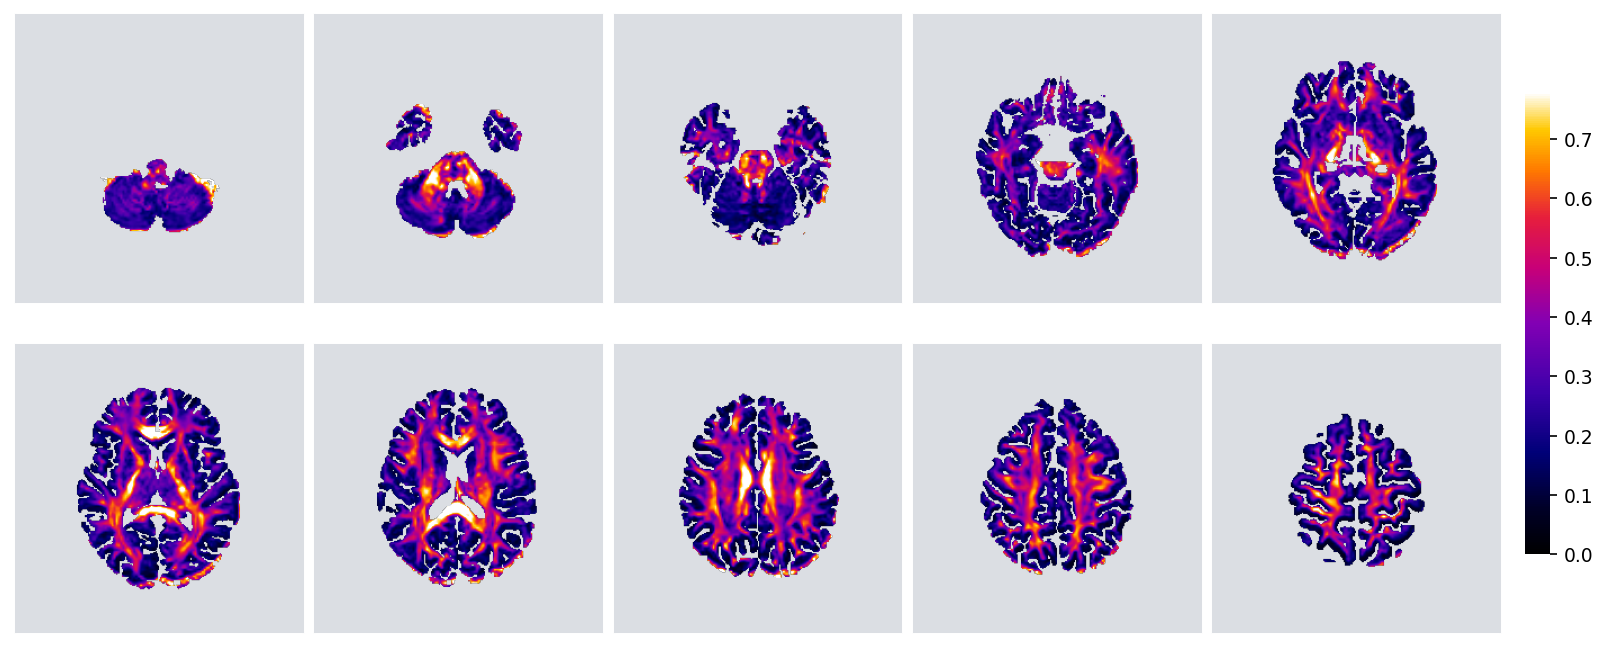
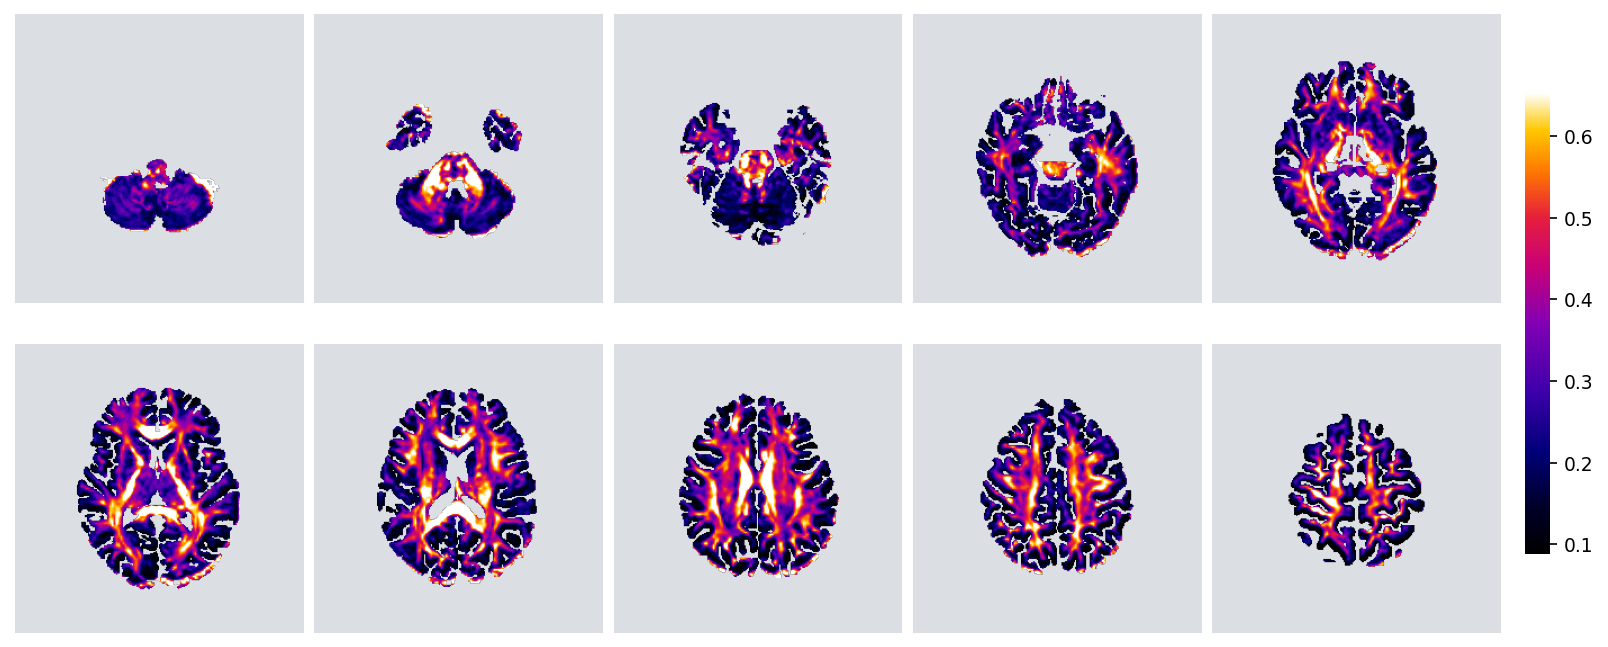
updated images

diff --git a/pbrain/io/ir_assembly.py b/pbrain/io/ir_assembly.py
@@ -1,66 +1,126 @@
-"""Assemble an inversion-recovery series from separate per-TI NIfTI files.
+"""Assemble an inversion-/saturation-recovery series from separate per-TI files.
 
-Some scanners export the IR experiment as one magnitude volume per inversion
-time (e.g. ``WIPTI_00120.nii``, ``WIPTI_00300.nii`` … where the number is the
-TI in ms) rather than a single 4-D stack. :func:`assemble_ir` finds those
-files, orders them by TI, and writes a single 4-D NIfTI the T1/M0 fitter can
-consume. The TI values are recovered from the filenames; when they match the
+Some scanners export the recovery experiment as one volume per inversion time
+(``…TI_00120…``, ``…TI_00300…``, …) instead of a single 4-D stack — and in
+whatever format the scanner produced: **NIfTI, PAR/REC, or DICOM**.
+:func:`assemble_ir` finds those per-TI volumes (by filename for NIfTI, by the
+PAR "Protocol name" header otherwise), converts non-NIfTI inputs to NIfTI with
+``dcm2niix``, orders them by TI, and writes a single 4-D NIfTI the T1/M0 fitter
+consumes. The TI values come from the file/protocol names; when they match the
 pipeline's ``inversion_times_ms`` the downstream stage uses those directly.
 
 Usage::
 
     from pbrain.io.ir_assembly import assemble_ir
-    ir_path, tis_ms = assemble_ir(subject_nifti_dir, out_path)
+    result = assemble_ir(subject_raw_dir, out_path)   # searches NIfTI + PAR/REC
+    if result: ir_path, tis_ms = result
 """
 
 from __future__ import annotations
 
 import re
+import shutil
+import subprocess
+import tempfile
 from pathlib import Path
 
 import numpy as np
 
-# Match a TI (ms) anywhere in the stem of an IR magnitude file, excluding the
-# imaginary/phase companions some exports include.
-_TI_RE = re.compile(r"(?:TI[_-]?)(\d{3,5})", re.I)
+# TI (ms) in a NIfTI filename or a PAR protocol name; skip phase/imaginary.
+_TI_RE = re.compile(r"TI[_\- ]?(\d{3,5})", re.I)
 _EXCLUDE = re.compile(r"imag|phase|real|_ph\b", re.I)
 
 
-def find_ir_files(nifti_dir: Path | str) -> list[tuple[int, Path]]:
-    """Return ``[(ti_ms, path), …]`` for the per-TI magnitude NIfTIs, sorted."""
-    nifti_dir = Path(nifti_dir)
+def _ti_from_par(par: Path) -> int | None:
+    """Read a PAR header's Protocol name and pull the TI (ms) out of it."""
+    try:
+        head = par.read_text(errors="ignore")[:4000]
+    except Exception:
+        return None
+    m = re.search(r"Protocol name\s*:\s*(.+)", head)
+    name = m.group(1) if m else ""
+    if _EXCLUDE.search(name):
+        return None
+    t = _TI_RE.search(name)
+    return int(t.group(1)) if t else None
+
+
+def find_ir_files(search_dir: Path | str) -> list[tuple[int, Path]]:
+    """Return ``[(ti_ms, path), …]`` for the per-TI volumes, sorted by TI.
+
+    Prefers already-converted NIfTI (filename-based); falls back to PAR/REC
+    (protocol-name-based). ``search_dir`` may be the subject root or its NIfTI
+    sub-folder — both are searched.
+    """
+    roots = [Path(search_dir)]
+    nd = Path(search_dir) / "NIfTI"
+    if nd.is_dir():
+        roots.append(nd)
+
     found: dict[int, Path] = {}
-    for f in sorted(nifti_dir.glob("*.nii")) + sorted(nifti_dir.glob("*.nii.gz")):
-        if f.name.startswith("._") or _EXCLUDE.search(f.name):
-            continue
-        m = _TI_RE.search(f.stem)
-        if not m:
-            continue
-        ti = int(m.group(1))
-        # First (magnitude) file per TI wins; companions already excluded.
-        found.setdefault(ti, f)
+    # NIfTI first (no conversion needed).
+    for root in roots:
+        for f in sorted(root.glob("*.nii")) + sorted(root.glob("*.nii.gz")):
+            if f.name.startswith("._") or _EXCLUDE.search(f.name):
+                continue
+            m = _TI_RE.search(f.stem)
+            if m:
+                found.setdefault(int(m.group(1)), f)
+    if len(found) >= 3:
+        return sorted(found.items())
+    # PAR/REC fallback (protocol name carries the TI).
+    for root in roots:
+        for par in sorted(root.glob("*.PAR")) + sorted(root.glob("*.par")):
+            if par.name.startswith("._"):
+                continue
+            ti = _ti_from_par(par)
+            if ti is not None:
+                found.setdefault(ti, par)
     return sorted(found.items())
 
 
-def assemble_ir(nifti_dir: Path | str, out_path: Path | str
-                ) -> tuple[Path, list[int]] | None:
-    """Stack the per-TI IR files into one 4-D NIfTI. Returns ``(path, tis_ms)``
-    or ``None`` if fewer than 3 TIs are found (can't fit T1)."""
+def _load_vol(path: Path) -> tuple[np.ndarray, np.ndarray]:
+    """Load a per-TI volume as (3-D magnitude array, affine), converting
+    PAR/REC or DICOM with dcm2niix when needed."""
     import nibabel as nib
 
-    files = find_ir_files(nifti_dir)
+    if path.suffix.lower() in (".nii",) or path.name.endswith(".nii.gz"):
+        img = nib.load(str(path))
+    else:
+        if not shutil.which("dcm2niix"):
+            raise RuntimeError("dcm2niix not on PATH — needed to convert PAR/REC "
+                               "or DICOM IR volumes.")
+        tmp = tempfile.mkdtemp(prefix="pbrain_ir_")
+        subprocess.run(["dcm2niix", "-z", "y", "-o", tmp, "-f", "out", str(path)],
+                       capture_output=True, text=True, timeout=300)
+        niis = sorted(Path(tmp).glob("out*.nii.gz")) or sorted(Path(tmp).glob("out*.nii"))
+        if not niis:
+            raise RuntimeError(f"dcm2niix produced no NIfTI for {path}")
+        img = nib.load(str(niis[0]))
+    arr = np.asarray(img.dataobj, dtype=np.float32)
+    if arr.ndim == 4:                       # magnitude is the first volume
+        arr = arr[..., 0]
+    return arr, np.asarray(img.affine, dtype=float)
+
+
+def assemble_ir(search_dir: Path | str, out_path: Path | str
+                ) -> tuple[Path, list[int]] | None:
+    """Stack the per-TI recovery volumes (any format) into one 4-D NIfTI.
+    Returns ``(path, tis_ms)`` or ``None`` if fewer than 3 TIs are found."""
+    import nibabel as nib
+
+    files = find_ir_files(search_dir)
     if len(files) < 3:
         return None
     tis = [ti for ti, _ in files]
-    ref = nib.load(str(files[0][1]))
-    vols = []
+    vols, affine = [], None
     for _, f in files:
-        arr = np.asarray(nib.load(str(f)).dataobj, dtype=np.float32)
-        if arr.ndim == 4:                       # collapse a singleton 4th dim
-            arr = arr[..., 0]
+        arr, aff = _load_vol(f)
+        if affine is None:
+            affine = aff
         vols.append(arr)
     stack = np.stack(vols, axis=-1)             # (X, Y, Z, nTI)
     out_path = Path(out_path)
     out_path.parent.mkdir(parents=True, exist_ok=True)
-    nib.save(nib.Nifti1Image(stack, ref.affine), str(out_path))
+    nib.save(nib.Nifti1Image(stack, affine), str(out_path))
     return out_path, tis

diff --git a/pbrain/diagnostics/montage.py b/pbrain/diagnostics/montage.py
@@ -91,14 +91,16 @@ _TILE_GREY = (0.86, 0.87, 0.89)        # subtle grey square behind each map
 
 def montage_volume(arr: np.ndarray, out_path: Path, *, mask: np.ndarray | None = None,
                    title: str = "", units: str = "", max_slices: int = 16,
-                   cmap=None) -> Path:
+                   vlims: tuple[float, float] = (2.0, 96.0), cmap=None) -> Path:
     """Render one article-style montage of ``arr`` (X, Y, Z) to ``out_path``.
 
     * ``mask`` (3-D bool): restrict display to brain voxels — voxels outside
       the mask become transparent so only segmented tissue is shown.
-    * Each slice sits on a subtle grey square so white (high-value) voxels do
-      not blend into the white page.
-    * Anterior points up (radiological axial).
+    * ``vlims`` (lo, hi) percentiles of the displayed tissue set the colour
+      window. The default (2, 96) scales to the bulk of the tissue so bright
+      outliers (vessels, partial-volume) saturate at the top instead of
+      squashing the main tissue into the dark end.
+    * Each slice sits on a subtle grey square; anterior points up.
     """
     import matplotlib
     matplotlib.use("Agg")
@@ -111,15 +113,18 @@ def montage_volume(arr: np.ndarray, out_path: Path, *, mask: np.ndarray | None =
         arr = np.where(np.asarray(mask, bool), arr, np.nan)
     cmap = (cmap or _specthl()).copy()
     cmap.set_bad((0, 0, 0, 0))                     # NaN → transparent → grey shows
+    cmap.set_over(cmap(1.0))                        # outliers saturate, not clip-white
 
     slices = _select_slices(arr, max_slices)
     rows, cols = balanced_grid(len(slices))
 
+    # Colour window from the displayed-tissue distribution only (brain voxels),
+    # so a few bright outliers don't darken everything else.
     finite = arr[np.isfinite(arr) & (arr != 0)]
-    vmin, vmax = (np.percentile(finite, [1, 99]) if finite.size else (0.0, 1.0))
+    lo, hi = vlims
+    vmin, vmax = (np.percentile(finite, [lo, hi]) if finite.size else (0.0, 1.0))
     if vmin == vmax:
         vmax = vmin + 1e-6
-    vmin = min(vmin, 0.0)                           # background (0) anchors the dark end
 
     fig, axes = plt.subplots(rows, cols, figsize=(cols * 2.2, rows * 2.2),
                              facecolor="white", squeeze=False)
@@ -185,13 +190,15 @@ def render_levels(arr: np.ndarray, out_dir: Path, stem: str, *,
                   parc: np.ndarray | None = None,
                   region_map: dict[str, list[int]] | None = None,
                   title: str = "", units: str = "", max_slices: int = 16,
+                  vlims: tuple[float, float] = (2.0, 96.0),
                   levels: tuple[str, ...] = ("voxel", "tissue", "parcel"),
                   ) -> dict[str, Path]:
     """Write the requested montage levels for one map. Returns ``{level: path}``.
 
     ``levels`` selects which to render — a parcel-painted map (from an
     average-then-fit model) passes ``("tissue", "parcel")`` so it is never
-    shown as a (misleading) per-voxel montage.
+    shown as a (misleading) per-voxel montage. ``vlims`` are the colour-window
+    percentiles (default scales to the bulk tissue, not outliers).
     """
     out_dir = Path(out_dir)
     written: dict[str, Path] = {}
@@ -199,16 +206,16 @@ def render_levels(arr: np.ndarray, out_dir: Path, stem: str, *,
     if "voxel" in levels:
         written["voxel"] = montage_volume(
             arr, out_dir / f"{stem}_voxel.png", mask=brain,
-            title=title, units=units, max_slices=max_slices)
+            title=title, units=units, max_slices=max_slices, vlims=vlims)
     if parc is not None:
         if "tissue" in levels and region_map:
             written["tissue"] = montage_volume(
                 paint_by_label(arr, parc, region_map),
                 out_dir / f"{stem}_tissue.png",
-                title=title, units=units, max_slices=max_slices)
+                title=title, units=units, max_slices=max_slices, vlims=vlims)
         if "parcel" in levels:
             written["parcel"] = montage_volume(
                 paint_by_label(arr, parc),
                 out_dir / f"{stem}_parcel.png",
-                title=title, units=units, max_slices=max_slices)
+                title=title, units=units, max_slices=max_slices, vlims=vlims)
     return written

diff --git a/pbrain/stages/_builtin.py b/pbrain/stages/_builtin.py
@@ -360,10 +360,29 @@ class TissueROIStage:
         opts = dict(ctx.config.options_for("tissue_roi", plugin_key))
         roi = provider.extract(t1_vol, t1_aff, out_dir=out_dir, **opts)
 
+        # The parcellation must live on the DCE grid — that's where the kinetic
+        # maps are aggregated. A provider that segments a high-res 3-D T1 (e.g.
+        # SynthSeg) returns its own grid, so resample to the DCE grid with
+        # nearest-neighbour (labels are integers). Providers already in DCE
+        # space (preloaded *_in_DCE) pass through unchanged.
+        parc = roi.parcellation.astype(np.int16)
+        parc_affine = roi.affine
+        dce_img = nib.load(str(load_mf.outputs["dce"]))
+        dce_shape = tuple(dce_img.shape[:3])
+        if parc.shape != dce_shape:
+            from nibabel.processing import resample_from_to
+            res = resample_from_to(
+                nib.Nifti1Image(parc, np.asarray(parc_affine, dtype=float)),
+                (dce_shape, np.asarray(dce_img.affine, dtype=float)), order=0)
+            parc = np.asarray(res.dataobj).astype(np.int16)
+            parc_affine = np.asarray(dce_img.affine, dtype=float)
+            _log.info("tissue_roi: resampled %s parcellation %s → DCE grid %s",
+                      plugin_key, roi.parcellation.shape, dce_shape)
+
         parc_out = ctx.path_scheme.output_path(
             ctx.subject_dir, self.name, plugin_key, None, "parcellation", "nii.gz"
         )
-        _save_nifti(roi.parcellation.astype(np.int16), roi.affine, parc_out)
+        _save_nifti(parc, parc_affine, parc_out)
         labels_out = ctx.path_scheme.output_path(
             ctx.subject_dir, self.name, plugin_key, None, "labels", "json"
         )
